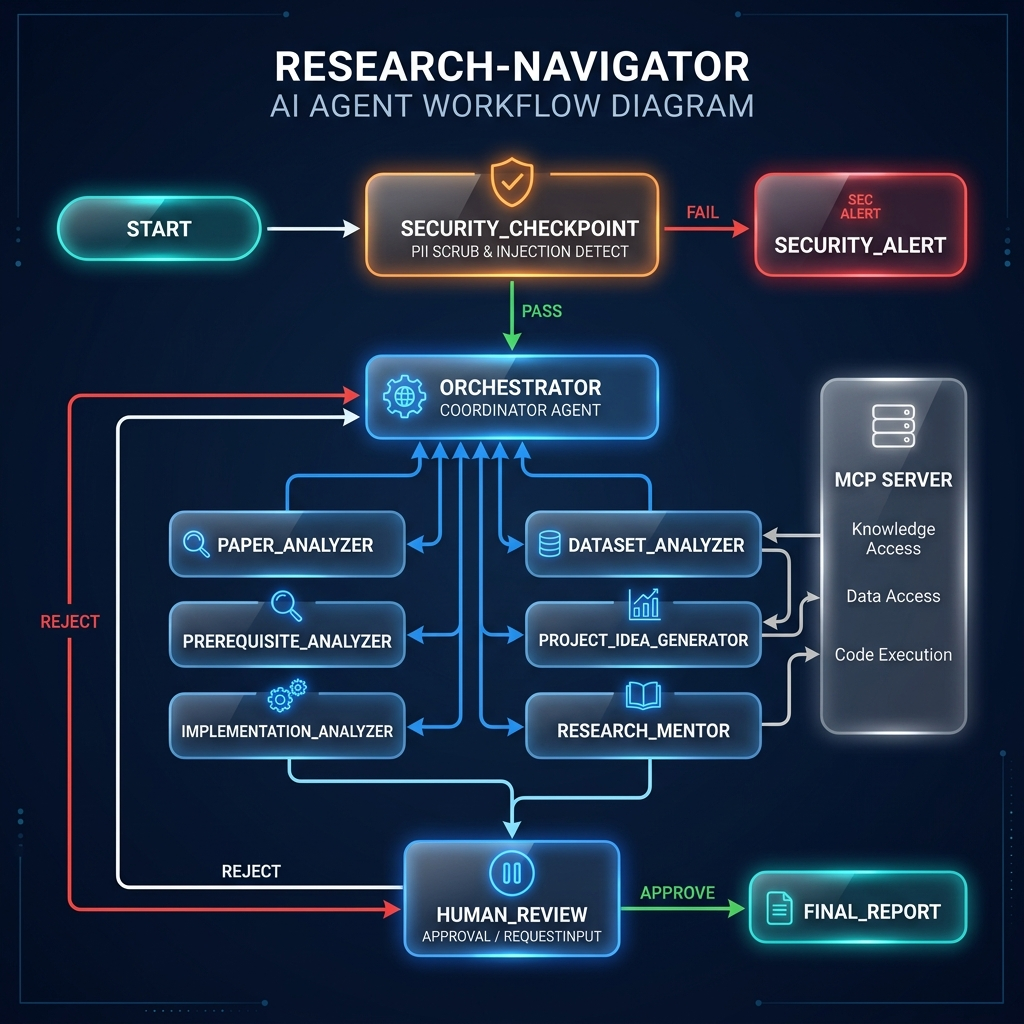
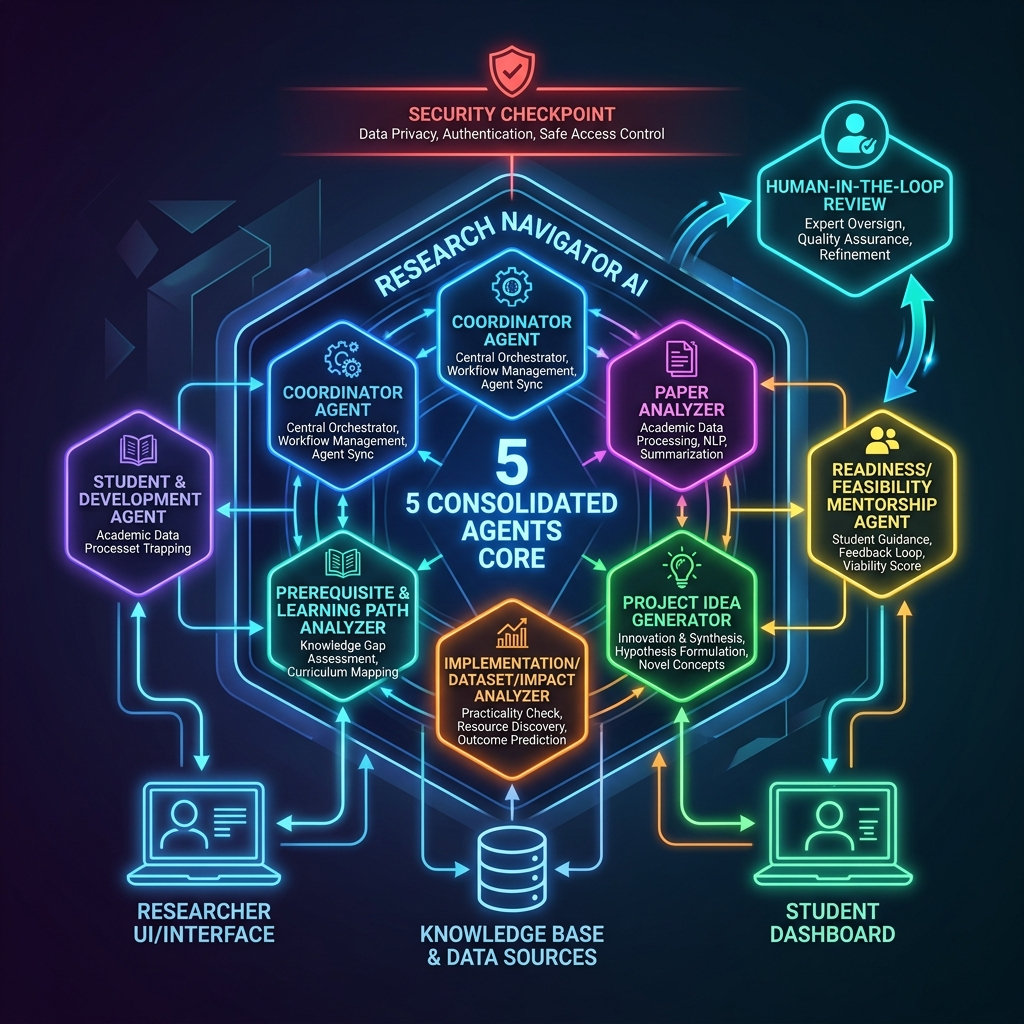
modifications

diff --git a/SUBMISSION_WRITEUP.md b/SUBMISSION_WRITEUP.md
@@ -19,18 +19,16 @@ graph TD
     SecurityCheck -- pass --> Orchestrator[Coordinator Agent]
     
     Orchestrator --> PaperAgent[Paper Analyzer]
-    Orchestrator --> PrereqAgent[Prerequisite Analyzer]
-    Orchestrator --> ImplAgent[Implementation Analyzer]
-    Orchestrator --> DatasetAgent[Dataset Analyzer]
+    Orchestrator --> PrereqPathAgent[Prerequisite & Learning Path Analyzer]
+    Orchestrator --> ImplDatasetImpactAgent[Implementation, Dataset, & Research Impact Analyzer]
     Orchestrator --> ProjectAgent[Project Idea Generator]
-    Orchestrator --> MentorAgent[Research Mentor]
+    Orchestrator --> ReadinessMentorAgent[Readiness, Feasibility, & Mentorship Agent]
     
     PaperAgent --> Orchestrator
-    PrereqAgent --> Orchestrator
-    ImplAgent --> Orchestrator
-    DatasetAgent --> Orchestrator
+    PrereqPathAgent --> Orchestrator
+    ImplDatasetImpactAgent --> Orchestrator
     ProjectAgent --> Orchestrator
-    MentorAgent --> Orchestrator
+    ReadinessMentorAgent --> Orchestrator
     
     Orchestrator --> HumanReview[Human Review & Approval]
     HumanReview -- reject/feedback --> Orchestrator
@@ -39,26 +37,31 @@ graph TD
 
 ## Concepts Used
 
-1. **ADK Workflow**: Graph-based state machine containing functional nodes and routing edges defined in [app/agent.py](file:///c:/Users/HP/Downloads/AI%20agents/adk-workspace/research-navigator/app/agent.py#L330-L360).
-2. **LlmAgent**: Six specialized agents (`paper_analyzer`, `prerequisite_analyzer`, `implementation_analyzer`, `dataset_analyzer`, `project_idea_generator`, `research_mentor`) configured with structured Pydantic output schemas in [app/agent.py](file:///c:/Users/HP/Downloads/AI%20agents/adk-workspace/research-navigator/app/agent.py#L50-L150).
-3. **AgentTool**: Used by the `orchestrator` to delegate tasks to the six specialized sub-agents dynamically in [app/agent.py](file:///c:/Users/HP/Downloads/AI%20agents/adk-workspace/research-navigator/app/agent.py#L182-L195).
-4. **MCP Server**: FastMCP server in [app/mcp_server.py](file:///c:/Users/HP/Downloads/AI%20agents/adk-workspace/research-navigator/app/mcp_server.py) providing local tools for checking prerequisites, dataset specifications, and complexity mappings.
-5. **Security Checkpoint**: Initial node `security_checkpoint` in [app/agent.py](file:///c:/Users/HP/Downloads/AI%20agents/adk-workspace/research-navigator/app/agent.py#L225-L290) implementing PII filtering, prompt injection blocks, and audit logging.
+1. **ADK Workflow**: Graph-based state machine containing functional nodes and routing edges defined in [app/agent.py](file:///c:/Users/HP/Downloads/AI%20agents/adk-workspace/research-navigator/app/agent.py).
+2. **LlmAgent**: Five consolidated agents (`paper_analyzer`, `prerequisite_and_learning_path_analyzer`, `implementation_dataset_impact_analyzer`, `project_idea_generator`, `readiness_and_feasibility_mentor`) configured with structured Pydantic output schemas in [app/agent.py](file:///c:/Users/HP/Downloads/AI%20agents/adk-workspace/research-navigator/app/agent.py) to reduce tool calling roundtrips.
+3. **AgentTool**: Used by the `orchestrator` to delegate tasks to the five consolidated sub-agents dynamically in [app/agent.py](file:///c:/Users/HP/Downloads/AI%20agents/adk-workspace/research-navigator/app/agent.py).
+4. **MCP Server**: FastMCP server in [app/mcp_server.py](file:///c:/Users/HP/Downloads/AI%20agents/adk-workspace/research-navigator/app/mcp_server.py) providing local tools for checking prerequisites, dataset specifications, complexity mappings, project templates, learning path weekly schedules, research domains, and readiness weights.
+5. **Security Checkpoint**: Initial node `security_checkpoint` in [app/agent.py](file:///c:/Users/HP/Downloads/AI%20agents/adk-workspace/research-navigator/app/agent.py) implementing PII filtering, prompt injection blocks, shell/script injection detection, and audit logging.
 6. **Agents CLI**: Project scaffolded with `agents-cli scaffold create` and configured with `pyproject.toml` and standard development lifecycles.
 
 ## Security Design
 
 - **PII Scrubbing**: Sanitizes email and phone patterns from the query string to protect student and researcher privacy.
 - **Prompt Injection Filter**: Employs keyword blocks (`ignore previous instructions`, etc.) to intercept jailbreaks before sending prompts to the coordinator and sub-agent LLMs.
+- **System Command Guardrail**: RegEx pattern checks to intercept and block system command injection attempts, including `os.system`, `subprocess`, `exec(`, `eval(`, `rm -rf`, and shell pipeline operators (`| sh`, `| bash`).
 - **Domain-Specific Check**: Ensures queries focus on academic topics and research papers, preventing the model from acting as a general-purpose chat interface (saving token quota).
 - **Structured Audit Logging**: Outputs JSON logging for key system events (PII redactions, injection attempts, approvals) to allow centralized compliance tracking.
 
 ## MCP Server Design
 
-Exposes three targeted local tools that act as a knowledge base to back sub-agent evaluations:
+Exposes seven targeted local tools that act as a knowledge base to back sub-agent evaluations:
 - `check_prerequisites(topic)`: Returns standard learning paths for core AI domains (Transformers, CNNs, GNNs) to ground the Prerequisite Agent.
-- `check_dataset_spec(dataset_name)`: Returns size, accessibility status, and difficulty for popular datasets (BraTS, TCIA, ImageNet, CBIS-DDSM) to assist the Dataset Agent.
-- `estimate_complexity(model_type)`: Returns typical implementation timelines and necessary framework dependencies (U-Net, ResNet, ViT, GPT-2) to ground the Implementation Agent.
+- `check_dataset_spec(dataset_name)`: Returns details, size, and availability for popular and medical datasets (BraTS, TCIA, ImageNet, CBIS-DDSM, Breast MRI Dataset, BUSI, HAM10000, PlantVillage, EuroSAT, Sentinel-2, Rice Leaf Disease).
+- `estimate_complexity(model_type)`: Returns typical implementation timelines and necessary framework dependencies (U-Net, ResNet, ViT, GPT-2).
+- `get_learning_path(topic)`: Retrieves structured weekly learning plans.
+- `get_project_templates(topic)`: Fetches reference beginner/intermediate/advanced template projects.
+- `get_research_domain(topic)`: Maps the topic to domain, subfield, and real-world impact.
+- `get_readiness_rules(topic)`: Returns skill evaluation readiness weights.
 
 ## Human-in-the-Loop (HITL) Flow
 
@@ -70,10 +73,11 @@ This is critical because:
 
 ## Demo Walkthrough
 
-The walkthrough tests the three primary user scenarios:
+The walkthrough tests the four primary user scenarios:
 1. **Valid Academic Flow**: Querying `"Vision Transformers in Medical Imaging"` runs the entire pipeline, calls the MCP database, maps prerequisites, and presents a suitability rating.
 2. **PII and Prompt Injection Block**: Queries containing injection payloads or PII trigger warnings and transition directly to the `Security Alert` terminal node.
-3. **Out-of-Domain Block**: Non-academic questions (e.g., general trivia) are rejected by the security checkpoint to save LLM tokens.
+3. **Execution Guardrail Block**: Queries containing shell instructions (e.g. `rm -rf /`) are blocked immediately by the security checkpoint functional node.
+4. **Out-of-Domain Block**: Non-academic questions (e.g., general trivia) are rejected by the security checkpoint to save LLM tokens.
 
 ## Impact / Value Statement
 

diff --git a/README.md b/README.md
@@ -13,18 +13,16 @@ graph TD
     SecurityCheck -- pass --> Orchestrator[Coordinator Agent]
     
     Orchestrator --> PaperAgent[Paper Analyzer]
-    Orchestrator --> PrereqAgent[Prerequisite Analyzer]
-    Orchestrator --> ImplAgent[Implementation Analyzer]
-    Orchestrator --> DatasetAgent[Dataset Analyzer]
+    Orchestrator --> PrereqPathAgent[Prerequisite & Learning Path Analyzer]
+    Orchestrator --> ImplDatasetImpactAgent[Implementation, Dataset, & Research Impact Analyzer]
     Orchestrator --> ProjectAgent[Project Idea Generator]
-    Orchestrator --> MentorAgent[Research Mentor]
+    Orchestrator --> ReadinessMentorAgent[Readiness, Feasibility, & Mentorship Agent]
     
     PaperAgent --> Orchestrator
-    PrereqAgent --> Orchestrator
-    ImplAgent --> Orchestrator
-    DatasetAgent --> Orchestrator
+    PrereqPathAgent --> Orchestrator
+    ImplDatasetImpactAgent --> Orchestrator
     ProjectAgent --> Orchestrator
-    MentorAgent --> Orchestrator
+    ReadinessMentorAgent --> Orchestrator
     
     Orchestrator --> HumanReview[Human Review & Approval]
     HumanReview -- reject/feedback --> Orchestrator
@@ -63,7 +61,7 @@ graph TD
      ```
    - **Windows**:
      ```powershell
-     uv run adk web app --host 127.0.0.1 --port 18081 --reload_agents
+     uv run adk web app --host 127.0.0.1 --port 18081
      ```
 
 ## How to Run
@@ -78,10 +76,11 @@ graph TD
 - **Input Query**: `"Vision Transformers in Medical Imaging"`
 - **Expected Path**:
   - `Security Checkpoint` checks text and passes (contains academic terms like "transformers" and "medical").
-  - `Coordinator` invokes the sub-agents.
-  - `Dataset Agent` queries local MCP tool to check dataset specs for medical images (e.g. BRATS/TCIA).
-  - `Prerequisite Agent` fetches the learning path for Transformers (requires PyTorch, linear algebra, attention).
-  - `Human Review` asks the user to review the consolidate report and type `approve` or feedback.
+  - `Coordinator` invokes the 5 consolidated sub-agents sequentially.
+  - `Implementation, Dataset, & Research Impact Analyzer` queries local MCP tools to check dataset specs for medical images (e.g. BUSI, HAM10000) and estimates complexity.
+  - `Prerequisite & Learning Path Analyzer` fetches the learning path roadmaps.
+  - `Readiness, Feasibility, & Mentorship Agent` calculates readiness score and feasibility using retrieved weightings.
+  - `Human Review` asks the user to review the consolidated report and type `approve` or feedback.
 - **Check**: Look for the structured recommendation report in the playground chat window, followed by the approval prompt.
 
 ### Test Case 2: Security Rejection (Prompt Injection)
@@ -92,7 +91,14 @@ graph TD
   - Skips LLM agents entirely to avoid quota waste and jailbreaks.
 - **Check**: The UI displays a warning `⚠️ Security Checkpoint Flagged: Prompt injection attempt detected.`
 
-### Test Case 3: Out-of-Domain Rejection
+### Test Case 3: Security Rejection (Execution Attempt Guardrail)
+- **Input Query**: `"write a script to run subprocess.check_output('rm -rf /')"`
+- **Expected Path**:
+  - `Security Checkpoint` scans and triggers on the block-phrase `"subprocess"` and `"rm -rf"`.
+  - Routes directly to `Security Alert` terminal node.
+- **Check**: UI displays a warning `⚠️ Security Checkpoint Flagged: Execution attempt detected. Shell or system execution queries are blocked.`
+
+### Test Case 4: Out-of-Domain Rejection
 - **Input Query**: `"What is the capital of France?"`
 - **Expected Path**:
   - `Security Checkpoint` scans input and determines it does not relate to academic concepts, datasets, or paper analysis.
@@ -122,8 +128,8 @@ The spoken demonstration script is available in [DEMO_SCRIPT.txt](DEMO_SCRIPT.tx
        ```bash
        lsof -ti:18081,8090 | xargs kill -9
        ```
-2. **API Key Quota error (429 / 403)**
-   - Make sure your `.env` contains a valid Google AI Studio key. If limits are exceeded, set `GEMINI_MODEL=gemini-2.5-flash-lite` in `.env` to leverage higher free tier limits.
+2. **API Key Quota error (429 / 503)**
+   - Default is set to `GEMINI_MODEL=gemini-2.5-flash-lite`. If limits are still exceeded under concurrent usage, wait 60 seconds for the minute window rate limit to reset.
 3. **No Agents Found / Directory Error**
    - Verify you are running the `uv run adk web app` command from inside the `research-navigator` directory and that `app/agent.py` exists.
 